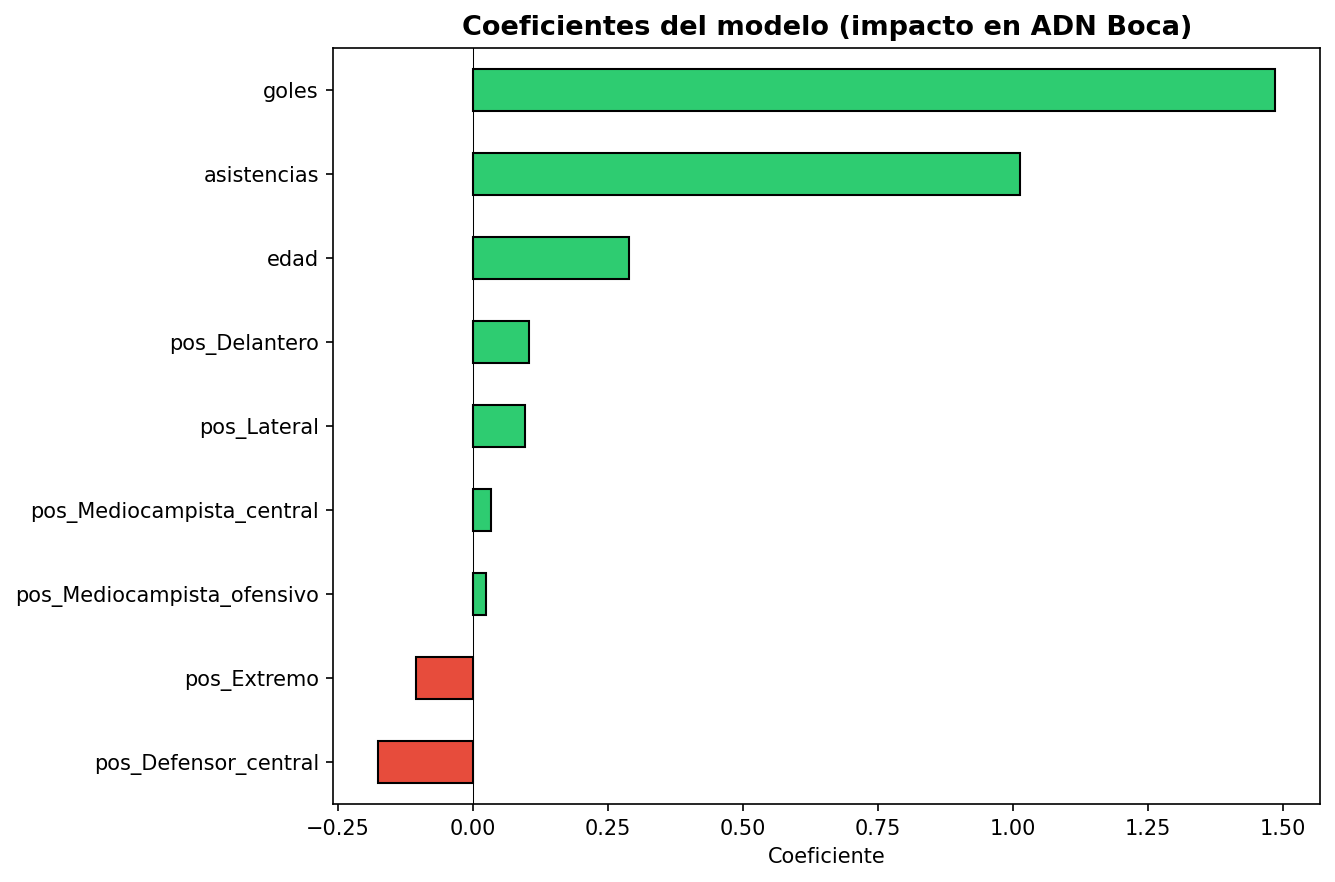
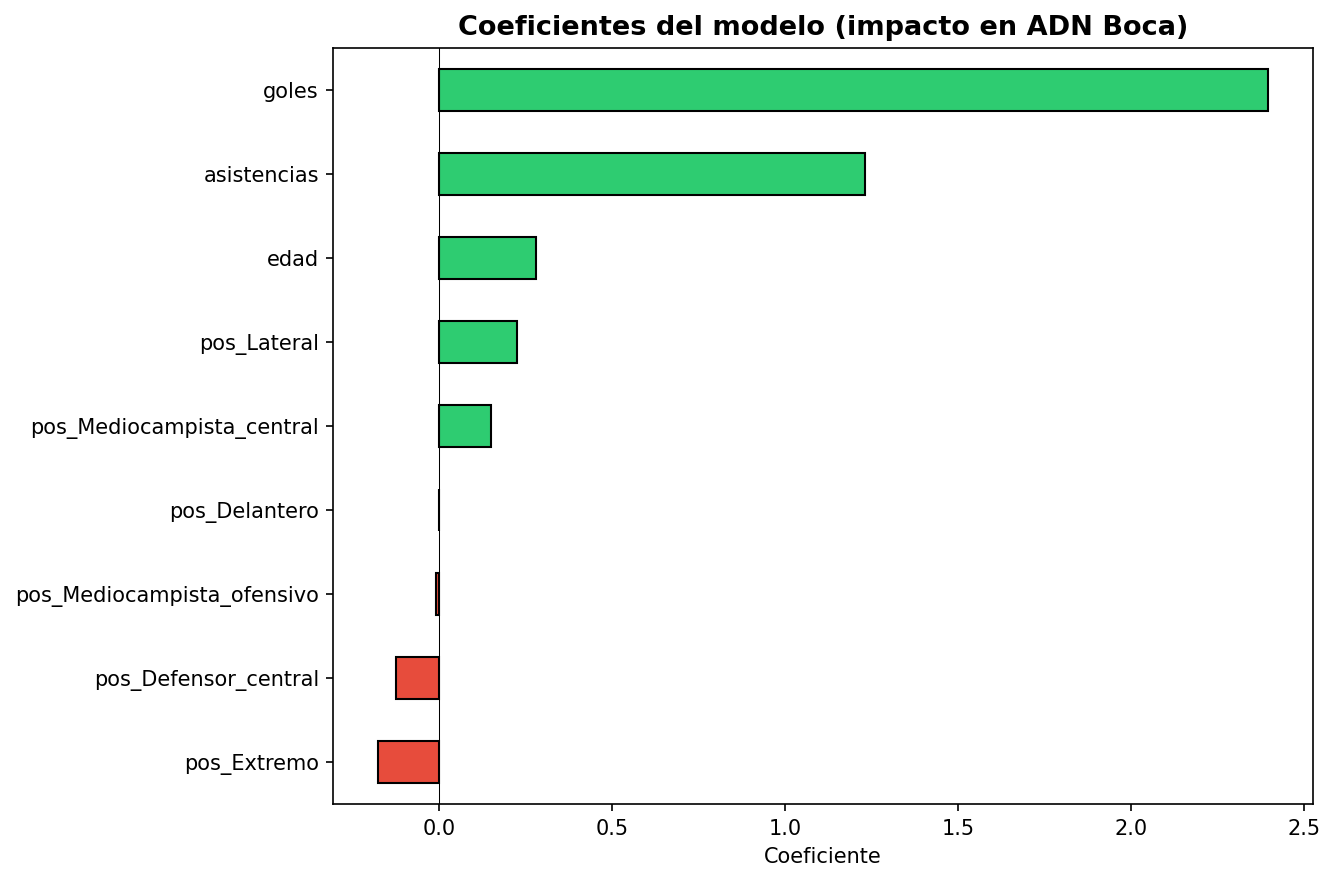
nuevo test 9 columnas y L1

diff --git a/src/train_model.py b/src/train_model.py
@@ -11,7 +11,8 @@ import pandas as pd
 import seaborn as sns
 from sklearn.ensemble import RandomForestClassifier
 from sklearn.linear_model import LogisticRegression
-from sklearn.metrics import classification_report, confusion_matrix, roc_auc_score
+from sklearn.metrics import (average_precision_score, classification_report,
+                             confusion_matrix, roc_auc_score)
 from sklearn.model_selection import GridSearchCV, GroupKFold
 from sklearn.preprocessing import StandardScaler
 from sklearn.tree import DecisionTreeClassifier
@@ -29,13 +30,10 @@ os.makedirs(OUTPUT_DIR, exist_ok=True)
 warnings.filterwarnings('ignore')
 
 # ============================================================
-# Features del modelo (esquema 9, decidido por experimento AUPRC):
-# goles, asistencias, edad + dummies de posicion. El resto de las
-# variables numericas (pases, continuidad, rol) resultaron ruido:
-# la L1 los reduce a 0 y el RF de 9 features iguala o supera al de
-# 13. La etiqueta es manual (sin formula), asi que goles/asistencias
-# son features validas. rating queda fuera: no hay rating
-# API-Football para inferir en el mercado.
+# Features del modelo (esquema 9): goles, asistencias, edad + dummies
+# de posicion. La etiqueta es manual (sin formula), asi que
+# goles/asistencias son features validas. rating queda fuera: no hay
+# rating API-Football comparable para inferir en el mercado.
 # ============================================================
 BASE_FEATURES = ['goles', 'asistencias', 'edad']
 
@@ -71,23 +69,52 @@ def split_por_jugador(df):
 
 
 def entrenar_modelo_principal(X_train, X_test, y_train, y_test, features, df, test_mask, grupos):
+    X_train = X_train.reset_index(drop=True)
+    X_test = X_test.reset_index(drop=True)
+    y_train = y_train.reset_index(drop=True)
+    y_test = y_test.reset_index(drop=True)
+    df_train = df.loc[~test_mask].reset_index(drop=True)
+    grupos = np.asarray(grupos)
+
+    # Se elige C por AUPRC en snapshots recientes de jugadores no vistos.
+    # El escalador se ajusta dentro de cada fold para evitar fuga de preprocessing.
+    resultados_cv = []
+    for c in [0.01, 0.1, 1, 10]:
+        scores = []
+        gkf = GroupKFold(n_splits=5)
+        for idx_train, idx_val in gkf.split(X_train, y_train, groups=grupos):
+            scaler_fold = StandardScaler().fit(X_train.iloc[idx_train])
+            X_fold_train = scaler_fold.transform(X_train.iloc[idx_train])
+            modelo_fold = LogisticRegression(
+                penalty='l1', solver='saga', C=c, class_weight='balanced',
+                max_iter=5000, random_state=RANDOM_STATE)
+            modelo_fold.fit(X_fold_train, y_train.iloc[idx_train])
+
+            val_df = df_train.iloc[idx_val]
+            idx_recientes = (val_df.sort_values(['nombre', 'temporada'])
+                             .groupby('nombre', as_index=False).tail(1).index.to_numpy())
+            X_val = scaler_fold.transform(X_train.iloc[idx_recientes])
+            prob_val = modelo_fold.predict_proba(X_val)[:, 1]
+            scores.append(average_precision_score(y_train.iloc[idx_recientes], prob_val))
+        resultados_cv.append((float(np.mean(scores)), float(np.std(scores, ddof=1)), c))
+
+    cv_ap, cv_sd, mejor_c = max(resultados_cv, key=lambda r: r[0])
     scaler = StandardScaler().fit(X_train)
     X_train_scaled = scaler.transform(X_train)
     X_test_scaled = scaler.transform(X_test)
-
-    param_grid = {'C': [0.01, 0.1, 1, 10, 100]}
-    lr = LogisticRegression(class_weight='balanced', max_iter=2000, random_state=RANDOM_STATE)
-    grid = GridSearchCV(lr, param_grid, cv=GroupKFold(n_splits=5), scoring='roc_auc')
-    grid.fit(X_train_scaled, y_train, groups=grupos)
-    modelo = grid.best_estimator_
+    modelo = LogisticRegression(
+        penalty='l1', solver='saga', C=mejor_c, class_weight='balanced',
+        max_iter=5000, random_state=RANDOM_STATE)
+    modelo.fit(X_train_scaled, y_train)
 
     y_pred = modelo.predict(X_test_scaled)
     y_prob = modelo.predict_proba(X_test_scaled)[:, 1]
     auc = roc_auc_score(y_test, y_prob)
+    ap = average_precision_score(y_test, y_prob)
 
-    print('=== MODELO PRINCIPAL: LogisticRegression balanceada (perfil puro) ===')
-    print(f'Mejor C: {grid.best_params_["C"]} | Mejor AUC (CV): {grid.best_score_:.3f}')
-    print(f'AUC-ROC test: {auc:.3f}')
+    print('=== MODELO PRINCIPAL: LogisticRegression L1 (saga) ===')
+    print(f'Mejor C: {mejor_c} | AUPRC CV latest-player: {cv_ap:.3f} ± {cv_sd:.3f}')
+    print(f'AUC-ROC test: {auc:.3f} | AUPRC test (filas): {ap:.3f}')
     print(classification_report(y_test, y_pred, target_names=['No encaja', 'ADN Boca']))
 
     cm = confusion_matrix(y_test, y_pred)
@@ -114,12 +141,17 @@ def entrenar_modelo_principal(X_train, X_test, y_train, y_test, features, df, te
 
     gkf = GroupKFold(n_splits=5)
     oof = np.zeros(len(X_train))
-    for train_idx, val_idx in gkf.split(X_train_scaled, y_train, groups=grupos):
-        lr_fold = LogisticRegression(class_weight='balanced', C=modelo.C,
-                                     max_iter=2000, random_state=RANDOM_STATE)
-        lr_fold.fit(X_train_scaled[train_idx], y_train.iloc[train_idx])
-        oof[val_idx] = lr_fold.predict_proba(X_train_scaled[val_idx])[:, 1]
+    for train_idx, val_idx in gkf.split(X_train, y_train, groups=grupos):
+        scaler_fold = StandardScaler().fit(X_train.iloc[train_idx])
+        X_fold_train = scaler_fold.transform(X_train.iloc[train_idx])
+        X_fold_val = scaler_fold.transform(X_train.iloc[val_idx])
+        lr_fold = LogisticRegression(
+            penalty='l1', solver='saga', C=mejor_c, class_weight='balanced',
+            max_iter=5000, random_state=RANDOM_STATE)
+        lr_fold.fit(X_fold_train, y_train.iloc[train_idx])
+        oof[val_idx] = lr_fold.predict_proba(X_fold_val)[:, 1]
     print(f'OOF AUC (GroupKFold por jugador): {roc_auc_score(y_train, oof):.3f}')
+    print(f'OOF AUPRC (filas): {average_precision_score(y_train, oof):.3f}')
 
     return modelo, scaler, y_pred, y_prob, oof, auc
 
@@ -143,21 +175,6 @@ def guardar_scouting(df, features, test_mask, oof, y_prob):
                      index=False, encoding='utf-8-sig')
     print(f'\nscouting_resultado_historico.csv guardado ({len(resultado)} filas)')
     return resultado
-
-
-def entrenar_modelo_l1(X_train, X_test, y_train, y_test, grupos):
-    print('\n=== MODELO ALTERNATIVO: LogisticRegression L1 (saga) ===')
-    param_grid = {'C': [0.01, 0.1, 1, 10]}
-    lr = LogisticRegression(penalty='l1', solver='saga', class_weight='balanced',
-                            max_iter=3000, random_state=RANDOM_STATE)
-    grid = GridSearchCV(lr, param_grid, cv=GroupKFold(n_splits=5), scoring='roc_auc')
-    grid.fit(X_train, y_train, groups=grupos)
-    modelo = grid.best_estimator_
-    y_pred = modelo.predict(X_test)
-    y_prob = modelo.predict_proba(X_test)[:, 1]
-    print(f'Mejor C: {grid.best_params_["C"]} | AUC test: {roc_auc_score(y_test, y_prob):.3f}')
-    print(classification_report(y_test, y_pred, target_names=['No encaja', 'ADN Boca']))
-    return modelo
 
 
 def entrenar_modelo_arbol(X_train, X_test, y_train, y_test, grupos):
@@ -211,7 +228,6 @@ def main():
 
     guardar_scouting(df, features, test_mask, oof, y_prob)
 
-    modelo_l1 = entrenar_modelo_l1(X_train, X_test, y_train, y_test, grupos)
     modelo_arbol = entrenar_modelo_arbol(X_train, X_test, y_train, y_test, grupos)
     modelo_bosque = entrenar_modelo_bosque(X_train, X_test, y_train, y_test, grupos)
 
@@ -219,7 +235,7 @@ def main():
     joblib.dump(scaler, os.path.join(MODEL_DIR, 'scaler.pkl'))
     joblib.dump(features, os.path.join(MODEL_DIR, 'features_list.pkl'))
     joblib.dump(encoder, os.path.join(MODEL_DIR, 'position_encoder.pkl'))
-    joblib.dump(modelo_l1, os.path.join(MODEL_DIR, 'modelo_logistic_l1.pkl'))
+    joblib.dump(modelo, os.path.join(MODEL_DIR, 'modelo_logistic_l1.pkl'))
     joblib.dump(modelo_arbol, os.path.join(MODEL_DIR, 'modelo_arbol.pkl'))
     joblib.dump(modelo_bosque, os.path.join(MODEL_DIR, 'modelo_bosque.pkl'))
     joblib.dump({'features': BASE_FEATURES, 'pos_columns': POS_COLUMNS},

diff --git a/tests/test_reglas.py b/tests/test_reglas.py
@@ -61,6 +61,8 @@ def test_pkls_cargables_y_prediccion_valida():
     modelo = joblib.load(os.path.join(MODEL_DIR, 'modelo_adn_boca.pkl'))
     scaler = joblib.load(os.path.join(MODEL_DIR, 'scaler.pkl'))
     encoder = joblib.load(os.path.join(MODEL_DIR, 'position_encoder.pkl'))
+    assert modelo.penalty == 'l1'
+    assert modelo.solver == 'saga'
 
     fila = {'goles': 8, 'asistencias': 4, 'edad': 23}
     X_base = pd.DataFrame([fila])

diff --git a/README.md b/README.md
@@ -28,8 +28,9 @@ python src/scouting_pipeline.py
 python src/automatizacion.py
 ```
 
-Los notebooks (`src/eda.ipynb`, `src/model_training.ipynb`, etc.) se ejecutan
-con kernel Python 3 desde Jupyter (`python -m jupyter notebook`).
+Los notebooks activos se ejecutan con kernel Python 3 desde Jupyter (`python -m
+jupyter notebook`). `src/model_training.ipynb` es legado: no ejecutarlo para
+entrenar ni generar artefactos; usar `src/train_model.py`.
 
 ## Reglas de Data Science (obligatorias)
 
@@ -49,16 +50,25 @@ con kernel Python 3 desde Jupyter (`python -m jupyter notebook`).
 ## Features del modelo (esquema 9)
 
 `goles`, `asistencias`, `edad` + 6 dummies de posición (`position_encoder.pkl`).
-Son 9 features según el experimento AUPRC: el resto (pases, continuidad, rol)
-es ruido — la L1 los reduce a 0 y el RF de 9 features iguala o supera al de 13.
-CV y OOF por jugador (GroupKFold). `rating` fuera (no hay rating API para el
-mercado; además correlaciona +0.88 con `goles`).
+Son 9 features; `rating` queda fuera porque no hay un valor comparable para los
+candidatos del mercado. La etiqueta es manual, por eso goles/asistencias no
+codifican una fórmula determinista de la etiqueta.
 
-Resultado en test (validación temporal): `modelo_adn_boca.pkl` (Logistic,
-AUC 0.755, OOF 0.872), `modelo_logistic_l1.pkl` (L1 saga, AUC 0.773),
-`modelo_bosque.pkl` (RandomForest, **AUC 0.779**). AUPRC ~0.72–0.74
-(2.2× el azar = prevalencia 0.333) y top-10 10/10 en test: el ranking sirve
-para el top-N semanal.
+Se seleccionó Logistic L1 (`penalty='l1'`, `solver='saga'`) para el ranking.
+La selección de `C` usa AUPRC con GroupKFold por jugador y el escalador se ajusta
+dentro de cada fold. Validación temporal por snapshots recientes (una fila por
+jugador):
+
+| Última temporada del jugador | Jugadores (+) | L1 AUPRC | L1 AUC-ROC | Precisión top-10 |
+|---|---:|---:|---:|---:|
+| 2015–2019 | 38 (14) | 0.695 | 0.769 | 6/10 |
+| 2020–2022 | 37 (10) | 0.731 | 0.791 | 7/10 |
+| 2023–2024 | 50 (12) | 0.736 | 0.854 | 7/10 |
+
+La prevalencia de cada bloque (0.368, 0.270 y 0.240) es su baseline de AUPRC.
+El RF queda como comparador: lideró en los bloques antiguos, pero bajó a AUPRC
+0.643 y precisión top-10 5/10 en 2023–2024. Las cohortes son pequeñas, así que
+los resultados orientan la elección, no garantizan el rendimiento futuro.
 
 ## Datos
 
@@ -76,7 +86,7 @@ Credenciales en `secrets/.env` (no versionado; ver `.env.example`).
 ## Estado y deudas técnicas
 
 - [x] EDA con esquema nuevo (incl. correlaciones por posición)
-- [x] Modelo esquema 9 (experimento AUPRC) + L1 corregido + RandomForest
+- [x] Esquema de 9 features y validación temporal por jugador de L1/RF
 - [x] Pipeline de scouting sobre `candidatos_mercado`
 - [x] NLP de sentimiento con fallback a placeholders
 - [x] Automatización local (script + Task Scheduler)

diff --git a/AGENTS.md b/AGENTS.md
@@ -16,8 +16,11 @@ resultados dudosos antes de darlos por buenos. Respondés en español.
 Sistema de DS para identificar fichajes con "ADN Boca" y medir el sentimiento de la hinchada.
 - Stack: Python (pandas, numpy, scikit-learn, matplotlib, seaborn, joblib), SQLite, API Football API-Sports v3.
 - Objetivo: ranking semanal de candidatos + tweet con top 5.
-- Estado real: modelo vigente entrenado y sincronizado (esquema 9 features, CV/OOF por
-  jugador con GroupKFold); EDA y notebooks de modelo al día (re-ejecutados, 0 errores).
+- Estado real: entrenamiento e inferencia sincronizados con el esquema de 9 features,
+  CV/OOF por jugador con GroupKFold; EDA y notebooks activos al día. `model_training.ipynb`
+  conserva un flujo legado y no es fuente de artefactos. La selección del clasificador debe
+  basarse en validación temporal y métricas
+  de ranking, no quedar codificada como una decisión permanente en estas instrucciones.
   Faltan: el pipeline de scoring de candidatos del mercado (src/scouting_pipeline.py
   no existe), NLP/sentimiento real y la automatización semanal + tweet.
 
@@ -27,7 +30,7 @@ Sistema de DS para identificar fichajes con "ADN Boca" y medir el sentimiento de
 - data/scouting_resultado.csv → salida del ranking.
 - data/scouting_resultado_historico.csv → predicciones del modelo (OOF en train, test directo; 729 filas).
 - data/boca_juniors.db → adn_boca, jugadores_entrenamiento, candidatos_mercado (180 jugadores), plantilla (vacía).
-- models/*.pkl → modelo_adn_boca.pkl, modelo_logistic_l1.pkl, modelo_bosque.pkl, scaler.pkl,
+- models/*.pkl → artefacto principal y comparadores Logistic/RF, scaler.pkl,
   features_list.pkl, config.pkl, position_encoder.pkl.
 - src/merge_datasets.py → pipeline de datos. outputs/*.png → figuras.
 
